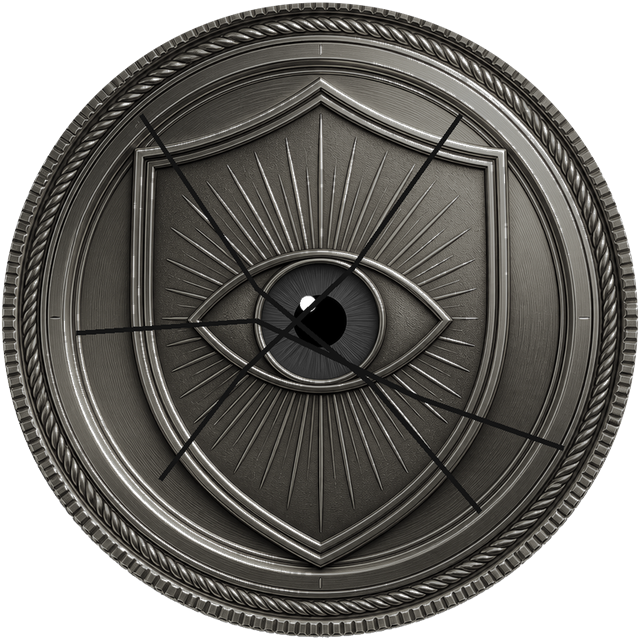
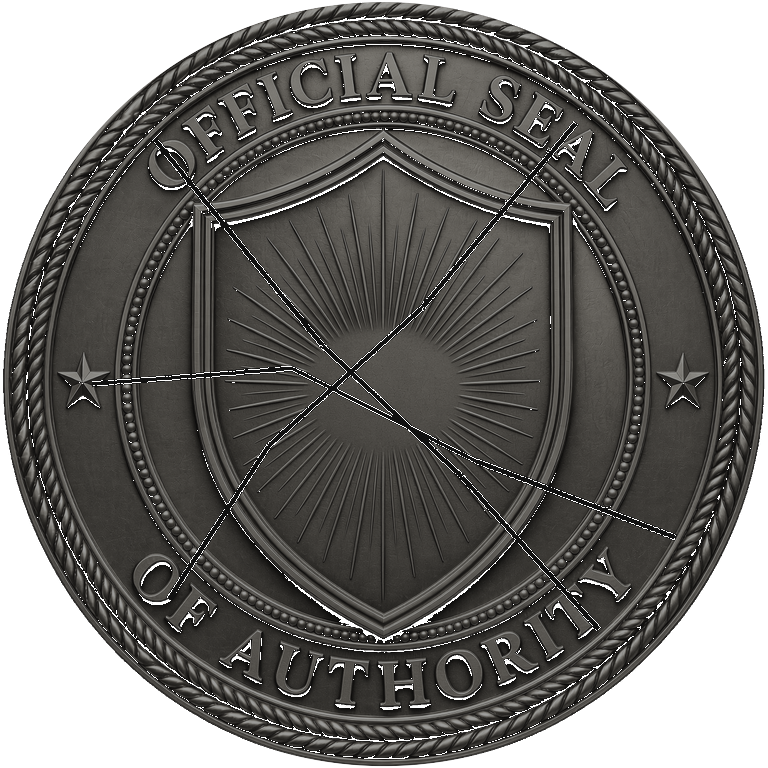
feat(badge): use user reference Official Seal artwork on OG cards
Swap in the provided embossed gold Official Seal of Authority as the
brand seal asset (transparent circular PNG + cracked REVOKED variant).
Curved serial stays procedural on the inner ring; bump og:image to v=3.

diff --git a/api/_badge-og-render.js b/api/_badge-og-render.js
@@ -15,7 +15,7 @@ import zlib from 'node:zlib';
 
 const W = 1200;
 const H = 630;
-const SEAL_DISPLAY = 300; // on-card diameter
+const SEAL_DISPLAY = 320; // on-card diameter (~2.4× from 768px asset)
 
 function crc32(buf) {
   let c = ~0;
@@ -444,8 +444,9 @@ export function renderBadgeOg(input) {
   if (sealImg) {
     blitImage(rgba, sealImg, sealX, sealY, sealSize, sealSize);
   }
-  // Procedural uniqueness: serial engraved along the outer band (~82% of radius)
-  drawCurvedSerial(rgba, input.serial || '', sealX, sealY, sealSize * 0.405, 4);
+  // Procedural uniqueness: serial on the inner gold ring (between text band and shield)
+  // so it doesn't fight "OFFICIAL SEAL / OF AUTHORITY" on the outer arc.
+  drawCurvedSerial(rgba, input.serial || '', sealX, sealY, sealSize * 0.29, 3);
 
   if (revoked) {
     fillRect(rgba, 70, 540, 420, 48, 180, 40, 40, 220);

diff --git a/api/verify-page.js b/api/verify-page.js
@@ -20,7 +20,7 @@ export default async function handler(req, res) {
   const badge = serial ? await getBadgeBySerial(serial) : null;
 
   const ogImage = serial
-    ? `${SITE}/api/badge/og?serial=${encodeURIComponent(serial)}&v=2`
+    ? `${SITE}/api/badge/og?serial=${encodeURIComponent(serial)}&v=3`
     : `${SITE}/brand/guardian-wordmark-og.jpg`;
   const title = badge
     ? `Guardian ${badge.pathLabel || badge.qualifyPath || 'Badge'} · ${badge.serial}`

diff --git a/api/badge-verify.js b/api/badge-verify.js
@@ -164,7 +164,7 @@ export default async function handler(req, res) {
     live,
     stillQualifies,
     verifyUrl: `${SITE}/verify/${badge.serial}`,
-    ogImage: `${SITE}/api/badge/og?serial=${encodeURIComponent(badge.serial)}&v=2`,
+    ogImage: `${SITE}/api/badge/og?serial=${encodeURIComponent(badge.serial)}&v=3`,
     sealUrl:
       status === 'VALID'
         ? `${SITE}/brand/seals/guardian-seal-valid-128.png`
